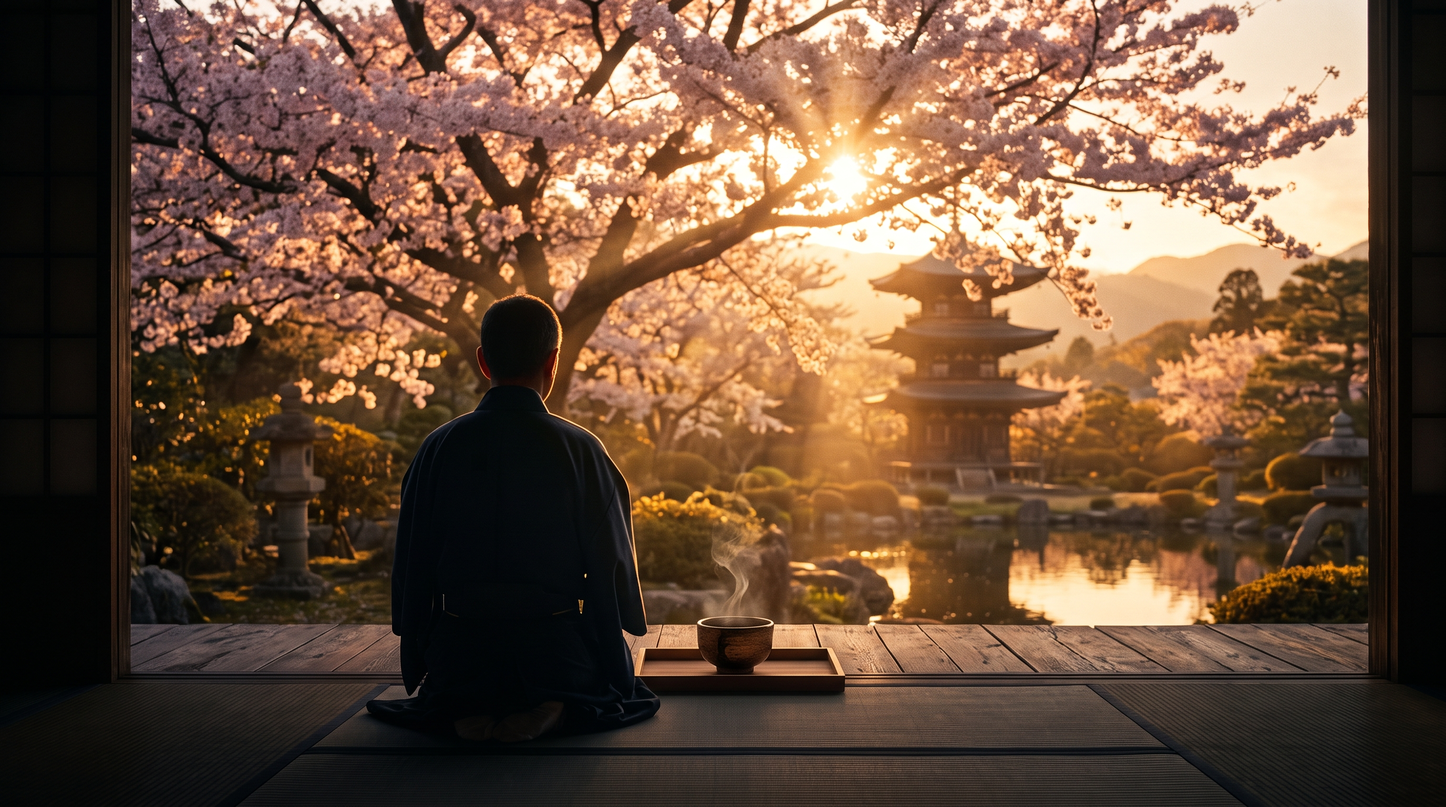
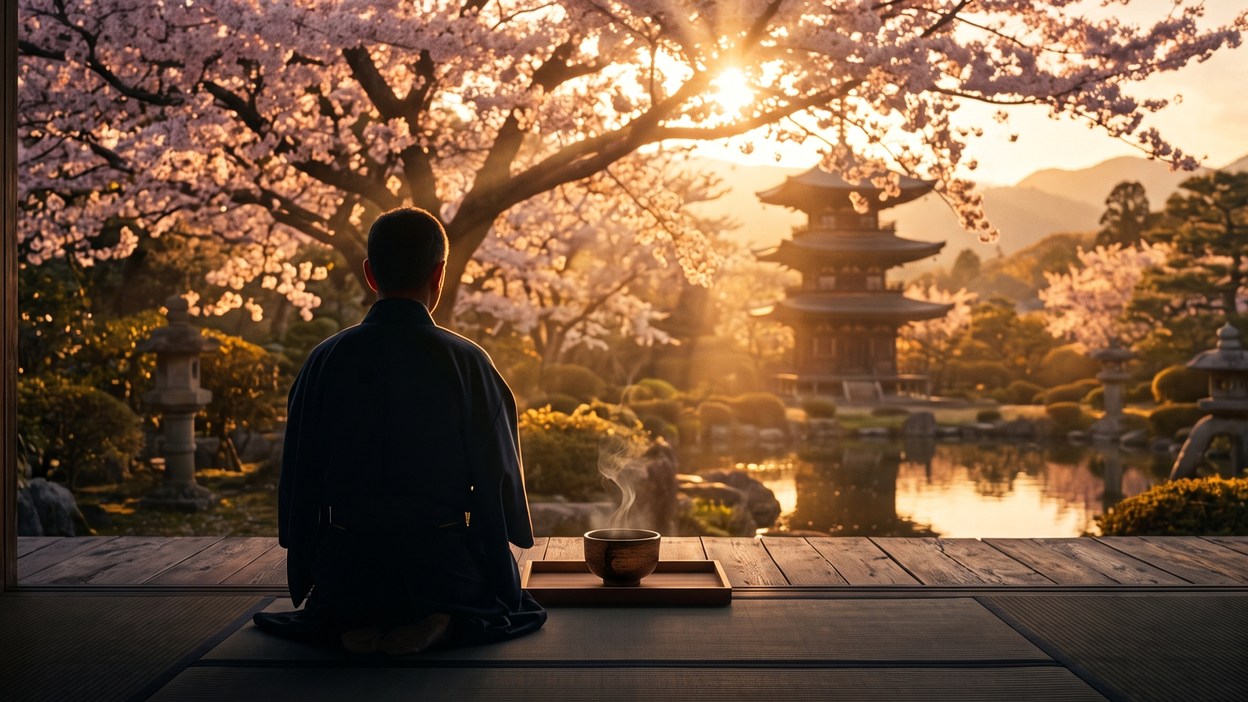
ICHIGO ICHIE thumbnail v3: edgeless hero (no black frame), horizontal 一期一会 + ICHIGO ICHIE

diff --git a/stillwave/assets/ichigo-ichie-compose-thumb.py b/stillwave/assets/ichigo-ichie-compose-thumb.py
@@ -16,7 +16,7 @@ CREAM = (245, 234, 210, 255)
 GOLD = (232, 197, 120, 255)
 INK = (20, 15, 13, 255)
 GOLD_STOPS = [(0.00, (250, 231, 170)), (0.45, (232, 196, 108)), (1.00, (180, 132, 58))]
-CROP_IN = 0.86  # keep central 86% → trims the dark shoji doorframe on the sides
+CROP_IN = 0.97  # edgeless hero already — trim only the thin left strip
 
 
 def base():
